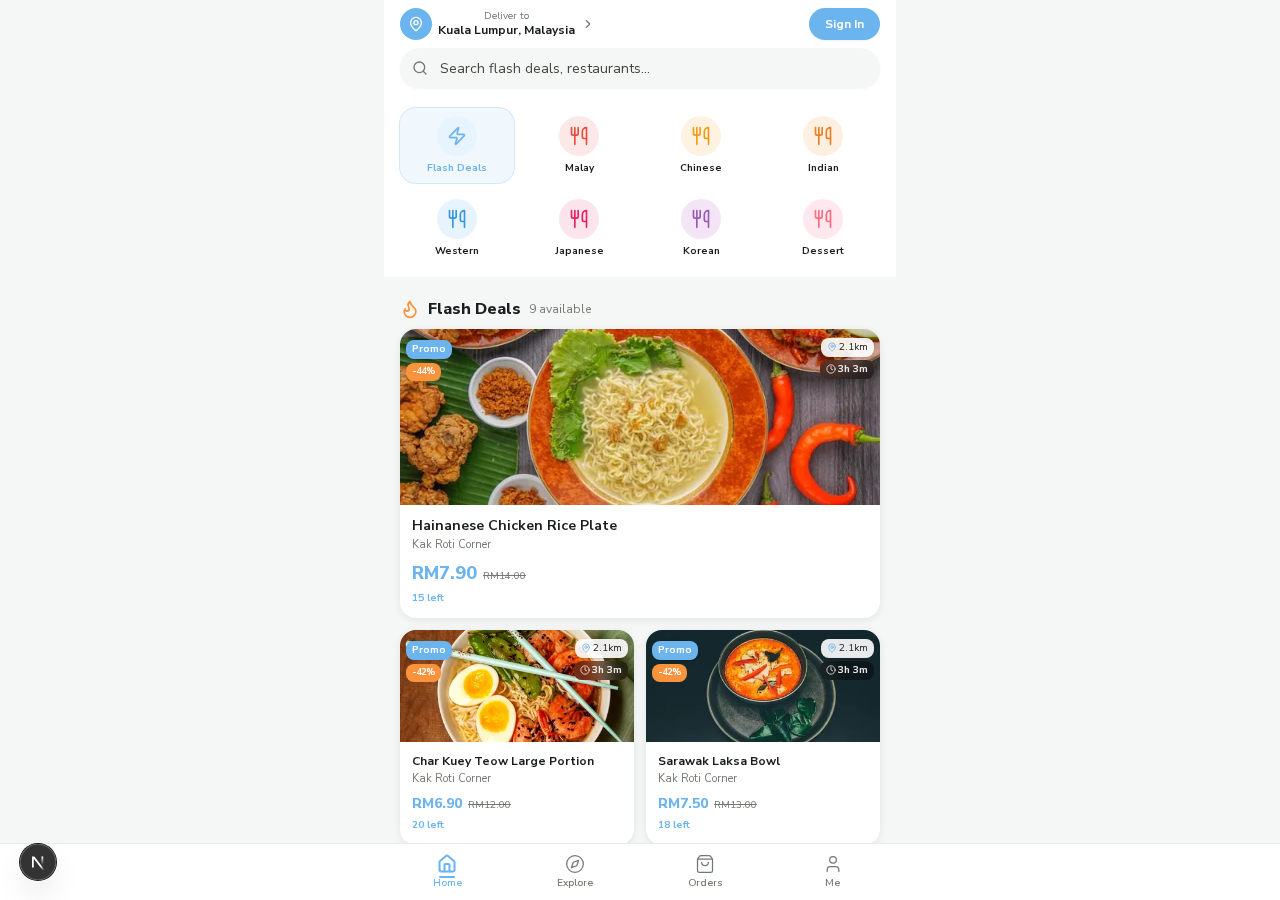
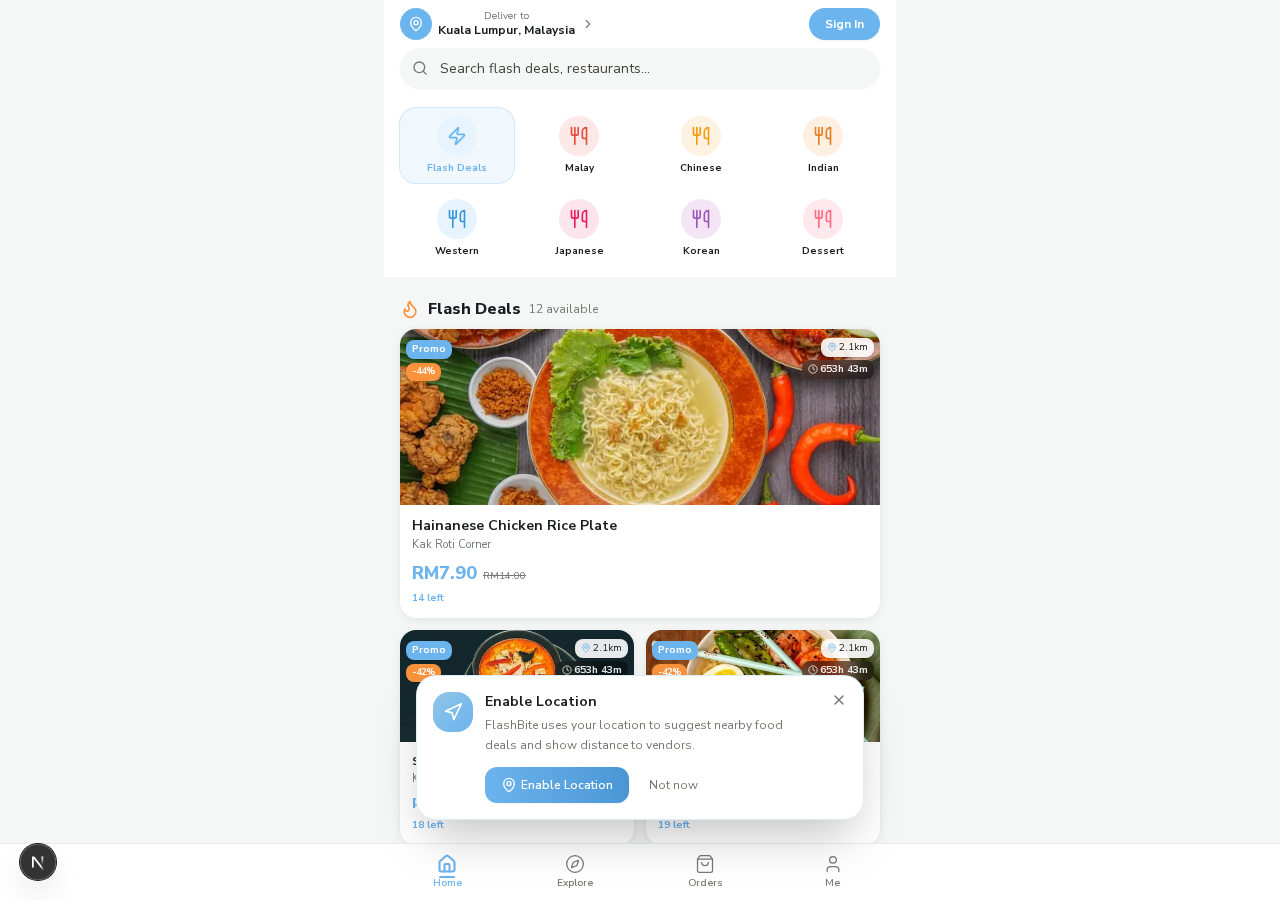
1d0d7322-4fce-49ea-8a7c-82aa793f7ab4

Changed region(s): [[0.3125, 0.6844, 0.6875, 0.9333], [0.625, 0.4044, 0.6562, 0.4356]]

diff --git a/worklog.md b/worklog.md
@@ -359,3 +359,35 @@ Stage Summary:
 - VLM confirmed SnapJe-style design: "white content area has rounded top corners that overlap the bottom edge of the hero image"
 - Lint clean (0 errors, 0 warnings)
 - Dev server running on port 3000
+
+---
+Task ID: deploy-sesatu
+Agent: Main Agent
+Task: Pull sesatu repo from https://github.com/povemy/sesatu and run it in this sandbox
+
+Work Log:
+- Cloned https://github.com/povemy/sesatu.git into /tmp/sesatu and inspected contents (FlashBite hyper-local food flash deal app, Next.js 16 + Prisma PostgreSQL + Supabase + socket.io)
+- Stopped the pre-existing default Next.js dev server (PIDs 1158/1179) via pkill
+- Replaced /home/z/my-project contents with the repo (preserved sandbox infra: .zscripts/, download/, upload/, node_modules/, .git)
+- Applied env.md's recommended robust fix for the sandbox system env var collision: renamed Prisma env vars in prisma/schema.prisma from env("DATABASE_URL")/env("DIRECT_URL") to env("PRISMA_DATABASE_URL")/env("PRISMA_DIRECT_URL"), and added matching PRISMA_* entries to .env (sandbox exports DATABASE_URL=file:...sqlite at system level which overrides .env)
+- Ran `bun install` (80 packages) and `bun run db:generate` (Prisma client generated)
+- Verified PostgreSQL connectivity to Supabase pooler (aws-1-ap-southeast-1.pooler.supabase.com:6543): 11 users, 4 vendors, 12 deals already seeded — DB intact
+- Installed `bun add -d playwright` + `npx playwright install chromium` for end-to-end browser verification
+- Discovered background processes die when a Bash tool command returns (sandbox cleans up the command's process tree); solved by launching with `setsid nohup ... < /dev/null &` which detaches into a new session and survives across commands
+- Started dev server: setsid nohup node node_modules/.bin/next dev -p 3000 (PID persisted across multiple commands)
+- Started realtime mini-service: setsid nohup bun --hot index.ts on port 3003
+- Browser verification (Playwright) PASSED:
+  * Homepage renders "FlashBite - Hyper-Local Food Flash Deals" with 12 active deals, categories, real prices/distances/countdowns
+  * Sign In modal works; login as vendor@test.com succeeds
+  * Vendor dashboard renders: Revenue RM7, Active Deals 2, Pending Pickup 0, Total Sold 5, Quick Actions, Leaflet map (KLCC)
+  * /api/deals -> 200 (Hainanese Chicken Rice Plate etc.), /api/vendors -> 200 (Test Vendor Kitchen etc.)
+  * Mobile viewport (375x700) renders correctly
+  * Only expected console error: 401 on /api/auth/me when unauthenticated
+- `bun run lint` passes with zero errors
+
+Stage Summary:
+- sesatu (FlashBite) successfully cloned, configured, and running in sandbox
+- Key fix: Prisma env var rename to avoid sandbox DATABASE_URL collision (per env.md guidance)
+- Dev server (port 3000) + realtime socket.io service (port 3003) both running and persistent
+- All APIs return real Supabase PostgreSQL data; auth, vendor dashboard, deals, map all functional
+- App is accessible via the preview panel at the / route
